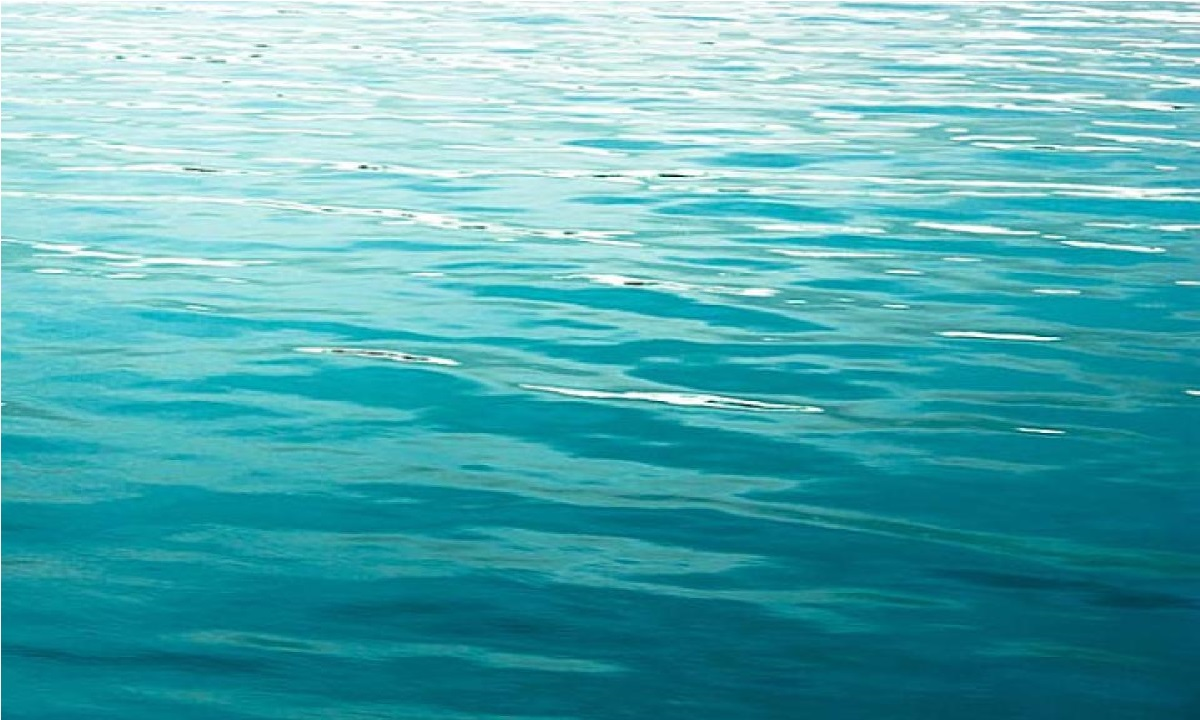
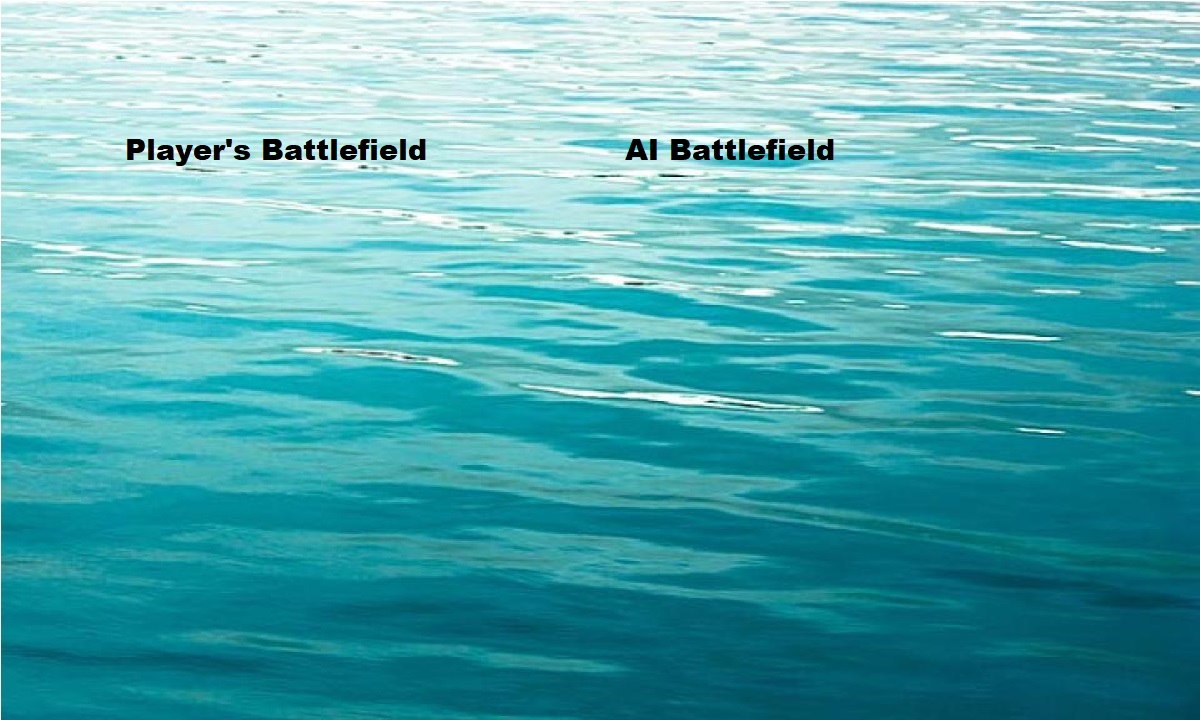
Final Stages of GUI

Changed region(s): [[0.0925, 0.1833, 0.37, 0.2444], [0.5242, 0.1833, 0.7092, 0.2444]]

diff --git a/Python/Python Project/GameGUI.py b/Python/Python Project/GameGUI.py
@@ -15,7 +15,7 @@ def run_game():
     display_height = 700
 
     Battlefield = pygame.image.load('./resources/Battlefield.png')
-
+    
     ##NUMPAD COMPONENT
     numPad1 = pygame.image.load('./resources/numPad1.png')
     numPad2 = pygame.image.load('./resources/numPad2.png')
@@ -43,7 +43,7 @@ def run_game():
 
 
     gameDisplay = pygame.display.set_mode((display_width, display_height))
-    pygame.display.set_caption('My Cool Game!')
+    pygame.display.set_caption('Uber Fantastic Mega Amazing Ultra Devastating Battleship Experience')
     clock = pygame.time.Clock()
     gameDisplay.fill(background)
 
